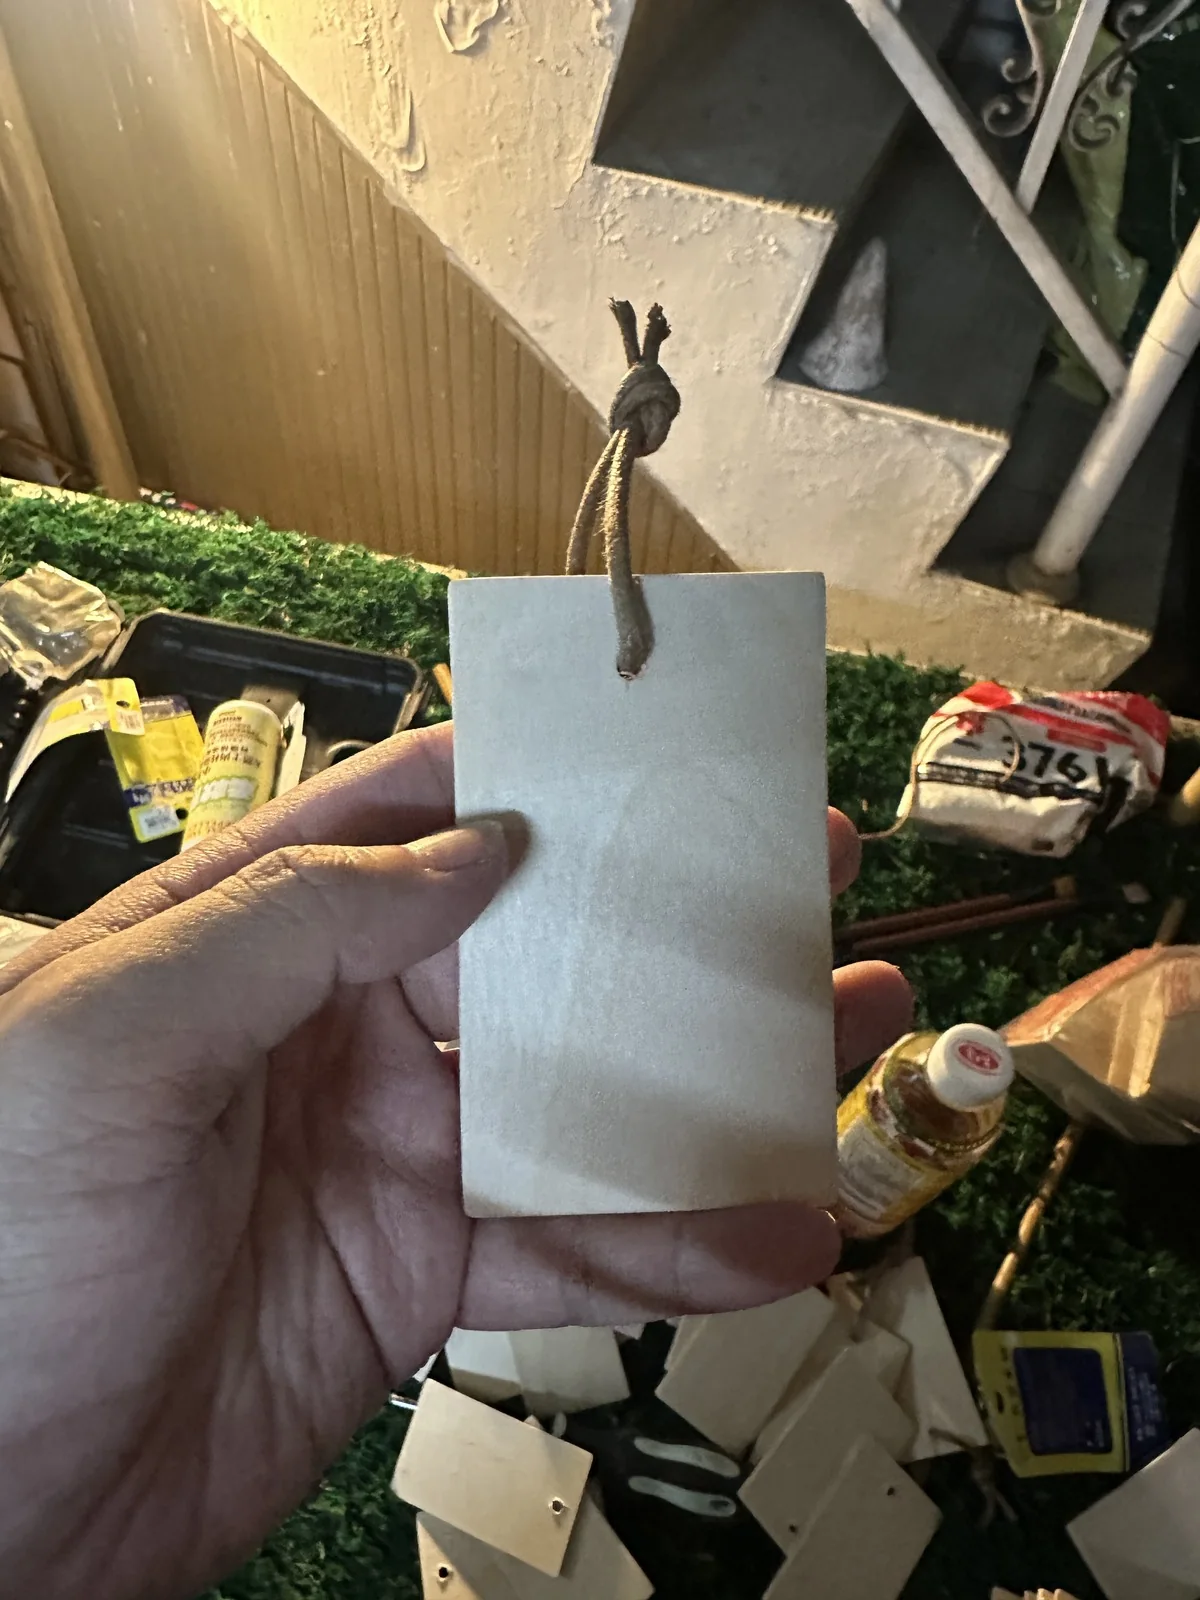
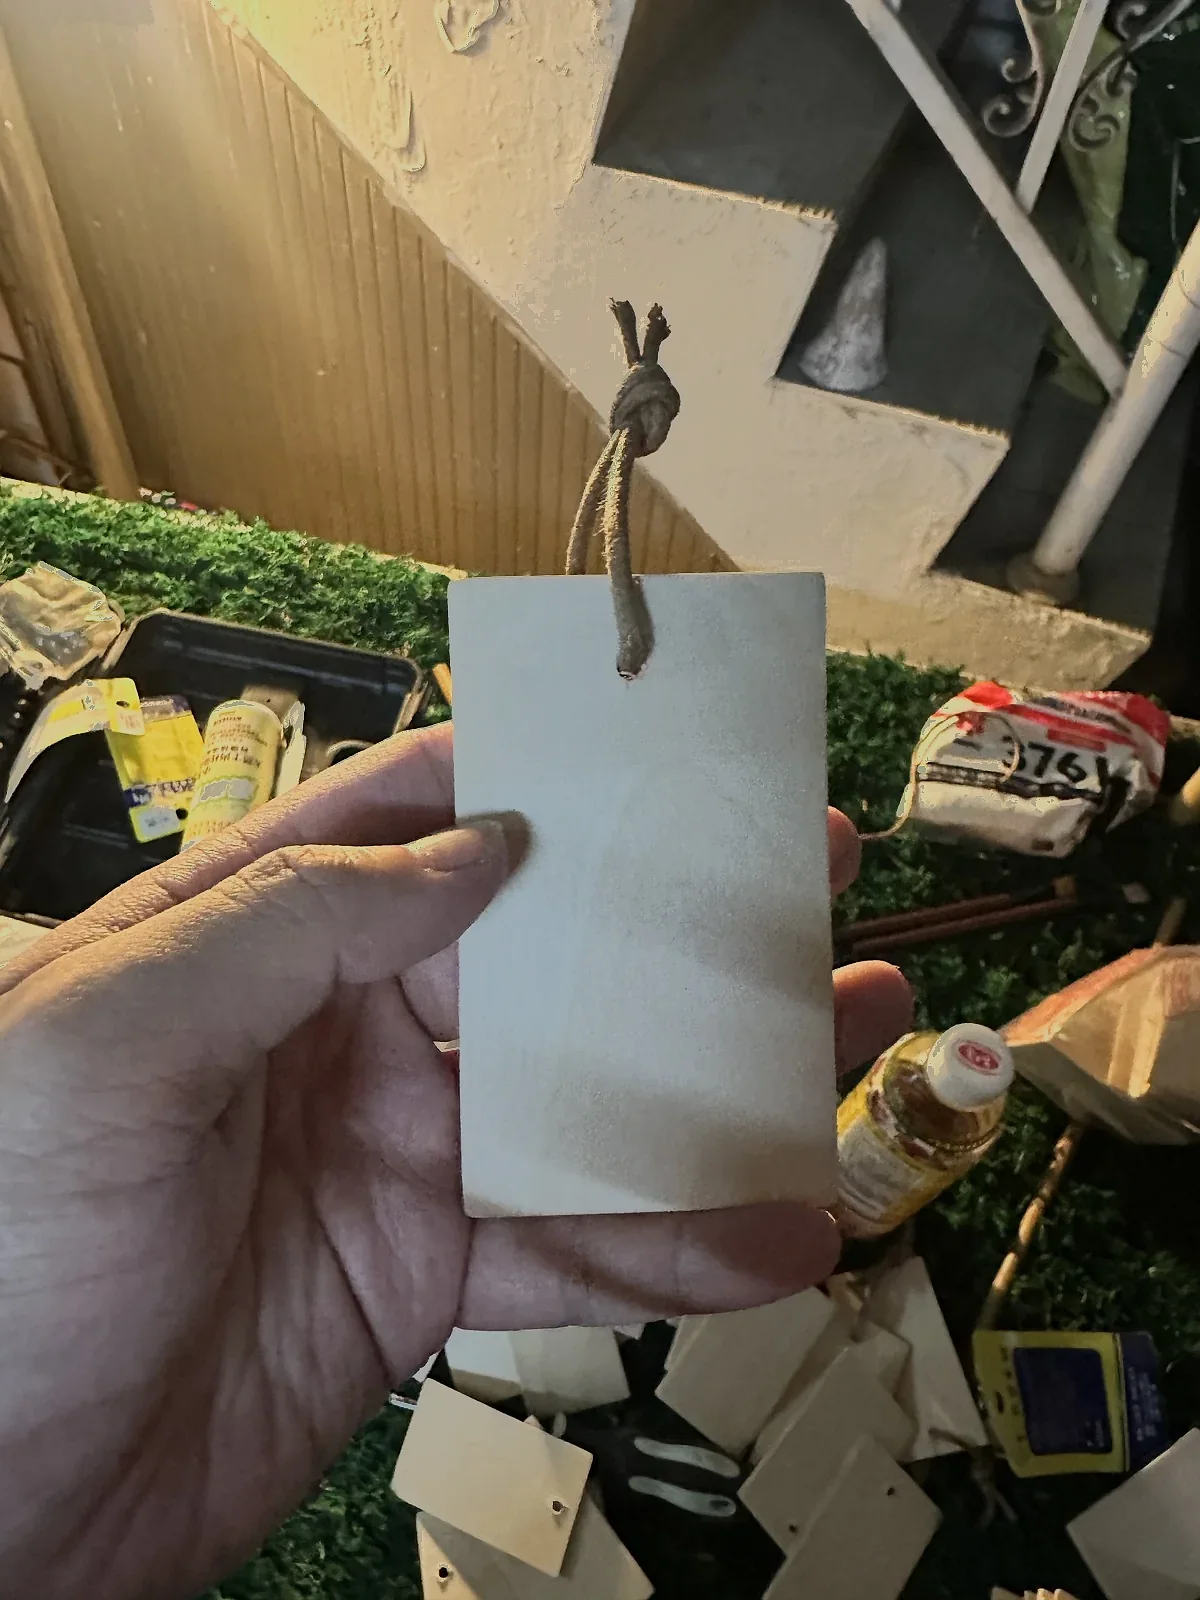
Polish Zhushan hero exposure and photo captions.
Recover highlights and sharpen the installation hero, lightly retouch overexposed process shots, and rewrite ZH/EN captions and alt text to match each photo.

diff --git a/assets/js/zhushan-config.js b/assets/js/zhushan-config.js
@@ -155,12 +155,12 @@ window.ZHUSHAN_CONFIG = {
 
   images: {
     hero: {
-      src: "/assets/images/projects/zhushan/hero-installation.webp",
+      src: "/assets/images/projects/zhushan/hero-installation-v2.webp?v=20260906-photo1",
       placeholder: false,
-      alt: "竹山開飯了－完整作品呈現",
+      alt: "竹山開飯了－竹管與竹纖維餐具構成的裝置全景，右側為竹願架",
       width: 1448,
       height: 1086,
-      caption: "完整作品呈現",
+      caption: "台西客運竹山站・竹青庭｜作品全景：竹林、餐具花朵與竹願架",
     },
     venue: {
       src: "",
@@ -175,8 +175,8 @@ window.ZHUSHAN_CONFIG = {
       {
         id: "01",
         stage: "竹構",
-        label: "從孔板與竹桿開始，建立作品最初的垂直節奏。",
-        alt: "竹構插桿施工",
+        label: "孔板底座鑽孔、竹桿試插，作品的垂直節奏從這裡開始。",
+        alt: "木工場中孔板底座與竹桿試組裝，旁有電鑽與木屑",
         src: "/assets/images/projects/zhushan/process-01-bamboo-frame.webp",
         placeholder: false,
         layout: "hero",
@@ -186,8 +186,8 @@ window.ZHUSHAN_CONFIG = {
       {
         id: "02",
         stage: "協作",
-        label: "木工製作與現場預組裝，讓概念逐步形成可落地的結構。",
-        alt: "木工場竹構與協作",
+        label: "木工場預組裝：竹林的疏密與高度，一寸寸被調出來。",
+        alt: "四位木工與預組裝中的竹構合影",
         src: "/assets/images/projects/zhushan/process-02-workshop.webp",
         placeholder: false,
         layout: "pair-left",
@@ -197,8 +197,8 @@ window.ZHUSHAN_CONFIG = {
       {
         id: "03",
         stage: "手作",
-        label: "竹纖維餐具重新被組合成花朵與放射形構件。",
-        alt: "竹材與餐具花件手作",
+        label: "竹纖維碗、叉、匙在案上堆疊，被重組為花朵與放射形構件。",
+        alt: "手作現場：竹纖維餐具與竹材堆滿桌面與地面",
         src: "/assets/images/projects/zhushan/process-03-handcraft.webp",
         placeholder: false,
         layout: "pair-right",
@@ -208,8 +208,8 @@ window.ZHUSHAN_CONFIG = {
       {
         id: "04",
         stage: "形成",
-        label: "材料逐步從零散單元變成完整竹林。",
-        alt: "作品預組裝正面",
+        label: "餐具花朵掛上竹桿，預組裝中的作品輪廓逐漸清晰。",
+        alt: "預組裝中的作品正面，竹桿上掛有餐具花朵",
         src: "/assets/images/projects/zhushan/process-04-preassembly.webp",
         placeholder: false,
         layout: "wide",
@@ -219,8 +219,8 @@ window.ZHUSHAN_CONFIG = {
       {
         id: "05",
         stage: "細節",
-        label: "底座植栽鋪設，讓地面也成為作品的一部分。",
-        alt: "底座植栽鋪設",
+        label: "底座試作：植栽與竹材並置，確認地面也成為作品的一部分。",
+        alt: "孔板底座上的植栽與竹材細節試作",
         src: "/assets/images/projects/zhushan/process-05-ground-detail.webp",
         placeholder: false,
         layout: "detail",
@@ -230,8 +230,8 @@ window.ZHUSHAN_CONFIG = {
       {
         id: "06",
         stage: "全景",
-        label: "預組裝完成後的作品樣貌。",
-        alt: "作品預組裝全景",
+        label: "現場試擺：作品對準窗前山巒布景，確認整體節奏。",
+        alt: "現場窗前試擺的作品全景，背景為山巒布景",
         src: "/assets/images/projects/zhushan/process-06-full-preassembly.webp",
         placeholder: false,
         layout: "finale",
@@ -241,8 +241,8 @@ window.ZHUSHAN_CONFIG = {
       {
         id: "07",
         stage: "協作",
-        label: "現場協作與組裝過程。",
-        alt: "木工底座孔板合影",
+        label: "孔板底座完工：木工場合影，準備進入組裝。",
+        alt: "兩位木工展示已鑽孔完成的木質底座",
         src: "/assets/images/projects/zhushan/people-01.webp",
         placeholder: false,
         layout: "pair-left",
@@ -252,9 +252,9 @@ window.ZHUSHAN_CONFIG = {
       },
       {
         id: "08",
-        stage: "竹語",
-        label: "竹語吊牌試作。",
-        alt: "竹語吊牌試作",
+        stage: "竹願",
+        label: "竹願吊牌試作：木牌與麻繩，留給現場書寫的空白。",
+        alt: "手持木製竹願吊牌試作，上方穿有麻繩",
         src: "/assets/images/projects/zhushan/bamboo-message-detail.webp",
         placeholder: false,
         layout: "detail",
@@ -264,9 +264,9 @@ window.ZHUSHAN_CONFIG = {
       },
       {
         id: "09",
-        stage: "協作",
-        label: "預組裝階段的現場合影。",
-        alt: "作品預組裝合影",
+        stage: "現場",
+        label: "作品成形後，創作者與協力者於裝置前留影。",
+        alt: "創作者與協力者在完成裝設的作品前自拍合影",
         src: "/assets/images/projects/zhushan/people-02.webp",
         placeholder: false,
         layout: "pair-right",

diff --git a/assets/js/zhushan-config-en.js b/assets/js/zhushan-config-en.js
@@ -36,20 +36,20 @@
     }),
     images: Object.assign({}, base.images || {}, {
       hero: Object.assign({}, (base.images && base.images.hero) || {}, {
-        alt: "竹山開飯了 ZHUSHAN KAI FAN LE — complete work presentation",
-        caption: "Complete work presentation",
+        alt: "竹山開飯了 ZHUSHAN KAI FAN LE — bamboo poles and tableware blossoms with the Bamboo Wishes rack",
+        caption: "Taixi Bus Zhushan Station · Zhuqingting | Full view: bamboo grove, tableware blossoms, and Bamboo Wishes",
       }),
       process: ((base.images && base.images.process) || []).map(function (item, i) {
         var stages = [
-          { stage: "Structure", label: "From perforated base plates and bamboo poles, the work finds its first vertical rhythm.", alt: "Bamboo frame and pole installation" },
-          { stage: "Collaboration", label: "Workshop making and on-site pre-assembly turn the concept into a buildable structure.", alt: "Workshop bamboo structure and collaboration" },
-          { stage: "Handwork", label: "Bamboo-fiber tableware is recomposed into blossoms and radial components.", alt: "Handwork with bamboo and tableware flower pieces" },
-          { stage: "Formation", label: "Scattered units gradually become a complete bamboo grove.", alt: "Front view of the work in pre-assembly" },
-          { stage: "Detail", label: "Planting at the base makes the ground part of the work.", alt: "Base planting detail" },
-          { stage: "Overview", label: "The work after pre-assembly.", alt: "Full pre-assembly overview" },
-          { stage: "Collaboration", label: "On-site collaboration and assembly.", alt: "Group photo with woodworkers and base plates" },
-          { stage: "Bamboo Phrase", label: "Prototype bamboo-phrase tags.", alt: "Bamboo phrase tag prototype" },
-          { stage: "Collaboration", label: "Group photo during pre-assembly.", alt: "Group photo at pre-assembly" },
+          { stage: "Structure", label: "Drilling the perforated base and test-fitting bamboo poles — the work’s vertical rhythm begins here.", alt: "Workshop trial assembly of bamboo poles in a perforated wooden base" },
+          { stage: "Collaboration", label: "Workshop pre-assembly: density and height of the bamboo grove are tuned inch by inch.", alt: "Four woodworkers posing with the bamboo structure in pre-assembly" },
+          { stage: "Handwork", label: "Bamboo-fiber bowls, forks, and spoons stack on the table, then become blossoms and radial pieces.", alt: "Handwork scene with bamboo-fiber tableware and bamboo poles" },
+          { stage: "Formation", label: "Tableware blossoms hang on bamboo poles — the work’s outline grows clear in pre-assembly.", alt: "Front view of the work in pre-assembly with tableware flower motifs" },
+          { stage: "Detail", label: "Base trial: planting and bamboo side by side, so the ground becomes part of the work.", alt: "Close-up of planting and bamboo detail on the perforated base" },
+          { stage: "Overview", label: "On-site test placement against the mountain backdrop, checking the overall rhythm.", alt: "On-site test placement of the work before the mountain backdrop" },
+          { stage: "Collaboration", label: "Perforated base complete — workshop photo before assembly begins.", alt: "Two woodworkers holding the finished perforated wooden base" },
+          { stage: "Bamboo Wish", label: "Bamboo Wish tag prototype: wood and twine, left blank for on-site writing.", alt: "Hand holding a wooden Bamboo Wish tag with twine" },
+          { stage: "On site", label: "After the work takes shape, the creator and collaborators pose with the installation.", alt: "Creator and collaborator selfie in front of the finished installation" },
         ];
         var t = stages[i] || {};
         return Object.assign({}, item, t);

diff --git a/zhushan/en/index.html b/zhushan/en/index.html
@@ -38,7 +38,7 @@
 <link rel="preconnect" href="https://fonts.gstatic.com" crossorigin>
 <link href="https://fonts.googleapis.com/css2?family=Noto+Sans+TC:wght@400;500&family=Noto+Serif+TC:wght@400;500;600&display=swap" rel="stylesheet">
 <link rel="preload" href="/assets/data/zhushan-outcomes.json" as="fetch" crossorigin>
-<link rel="stylesheet" href="/assets/css/zhushan.css?v=20260906-creator1">
+<link rel="stylesheet" href="/assets/css/zhushan.css?v=20260906-photo1">
 <script type="application/ld+json">
 {
   "@context": "https://schema.org",
@@ -107,8 +107,8 @@
 }
 </script>
 <script src="/assets/js/qrcode-generator.js?v=20260831-v70"></script>
-<script src="/assets/js/zhushan-config.js?v=20260906-hero1"></script>
-<script src="/assets/js/zhushan-config-en.js?v=20260906-hero1"></script>
+<script src="/assets/js/zhushan-config.js?v=20260906-photo1"></script>
+<script src="/assets/js/zhushan-config-en.js?v=20260906-photo1"></script>
 <script>
 /* Early outcomes fetch — reduce mid-scroll layout insertion */
 window.__ZS_OUTCOMES_P = (function () {

diff --git a/zhushan/index.html b/zhushan/index.html
@@ -38,7 +38,7 @@
 <link rel="preconnect" href="https://fonts.gstatic.com" crossorigin>
 <link href="https://fonts.googleapis.com/css2?family=Noto+Sans+TC:wght@400;500&family=Noto+Serif+TC:wght@400;500;600&display=swap" rel="stylesheet">
 <link rel="preload" href="/assets/data/zhushan-outcomes.json" as="fetch" crossorigin>
-<link rel="stylesheet" href="/assets/css/zhushan.css?v=20260906-creator1">
+<link rel="stylesheet" href="/assets/css/zhushan.css?v=20260906-photo1">
 <script type="application/ld+json">
 {
   "@context": "https://schema.org",
@@ -108,7 +108,7 @@
 }
 </script>
 <script src="/assets/js/qrcode-generator.js?v=20260831-v70"></script>
-<script src="/assets/js/zhushan-config.js?v=20260906-hero1"></script>
+<script src="/assets/js/zhushan-config.js?v=20260906-photo1"></script>
 <script>
 /* Early outcomes fetch — reduce mid-scroll layout insertion */
 window.__ZS_OUTCOMES_P = (function () {

diff --git a/assets/css/zhushan.css b/assets/css/zhushan.css
@@ -432,6 +432,8 @@ html.zs-page {
   width: 100%;
   background: var(--zs-white);
   border: 1px solid var(--zs-rule);
+  /* Soften residual window blowout without washing midtones */
+  filter: brightness(0.97) contrast(0.98) saturate(1.04);
 }
 
 .zs-hero__caption {
@@ -440,6 +442,8 @@ html.zs-page {
   font-size: var(--zs-fs-caption);
   letter-spacing: 0.04em;
   color: var(--zs-warm);
+  text-wrap: pretty;
+  max-width: 42em;
 }
 
 /* —— Sections —— */
@@ -1938,8 +1942,11 @@ html.zs-page {
 
 .zs-process-item figcaption {
   margin-top: 10px;
+  max-width: 36em;
   font-size: 14px;
+  line-height: 1.7;
   color: var(--zs-muted);
+  text-wrap: pretty;
 }
 
 .zs-video {
